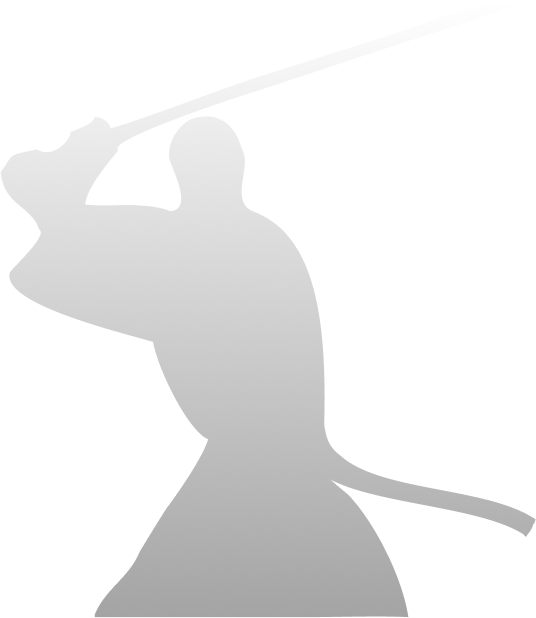
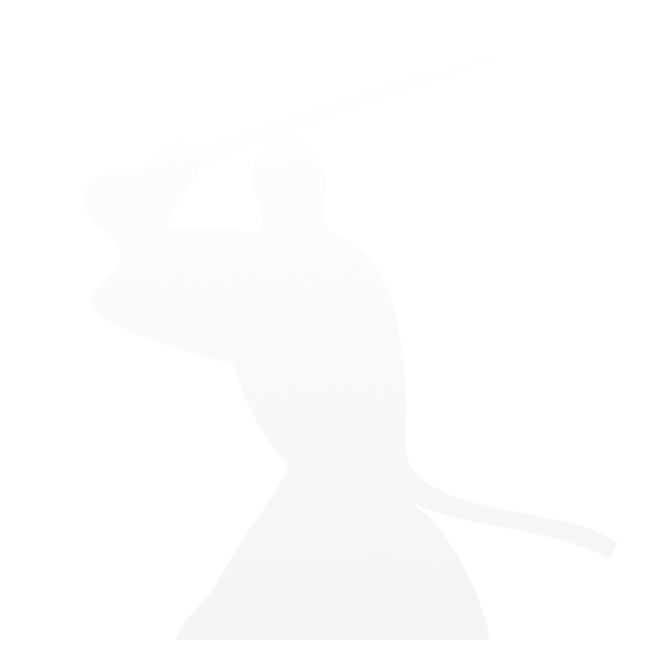
samourai page + content

Changed region(s): [[0.0, 0.246, 1.0, 1.0]]

diff --git a/src/routes/samourai-wallet/+page.svelte b/src/routes/samourai-wallet/+page.svelte
@@ -1,1 +1,104 @@
-<div>todo samouraiwallet</div>
+<script>
+  import data from "@lib/data/samourai.json";
+
+  import H1 from "@lib/components/H1.svelte";
+  import H2 from "@lib/components/H2.svelte";
+  import FlatCoinjoinSvg from "@lib/components/FlatCoinjoinSvg.svelte";
+  import ArrowDown from "@lib/img/ArrowDown.svelte";
+  import GreenText from "@lib/components/GreenText.svelte";
+
+  import TelescopeSvg from "@lib/img/TelescopeSvg.svelte";
+  import GreenCircleSvg from "@lib/img/GreenCircleSvg.svelte";
+  import BlueCheckSvg from "@lib/img/BlueCheckSvg.svelte";
+  import XCircleSvg from "@lib/img/XCircleSvg.svelte";
+  import RedText from "@lib/components/RedText.svelte";
+
+  let y;
+
+  const samouraiData = data;
+</script>
+
+<svelte:window bind:scrollY={y} />
+
+<div class="relative px-4 pt-10 h-[60vh] max-w-5xl mx-auto">
+  <div class="absolute flex flex-col gap-10 pt-8">
+    <H1>Samourai<br /><GreenText>& Whirlpool</GreenText></H1>
+    <div class="text-lg">
+      {samouraiData.hero}
+    </div>
+    <div>
+      <FlatCoinjoinSvg />
+    </div>
+    <div class="flex justify-center">
+      <div class="w-6 animate-bounce">
+        <a href="#overview">
+          <ArrowDown />
+        </a>
+      </div>
+    </div>
+  </div>
+
+  <img src="/wallets-bg/samourai-bg.png" alt="Samourai Logo" />
+</div>
+
+<div class="px-4 flex flex-col gap-6 max-w-3xl mx-auto md:gap-12" id="overview">
+  <div class="w-20">
+    <TelescopeSvg />
+  </div>
+  <H2>Overview</H2>
+  <div class="flex flex-col gap-6">
+    {#each Object.entries(samouraiData.overview) as [point, text]}
+      <div class="flex gap-4 items-start">
+        <div class="w-4 flex-shrink-0">
+          <GreenCircleSvg />
+        </div>
+        <p>{text}</p>
+      </div>
+    {/each}
+  </div>
+</div>
+
+<div class="px-4 flex flex-col gap-6 max-w-3xl mx-auto md:gap-12">
+  <div
+    class="text-green-cj text-center rounded-lg border-4 border-green-cj px-6 py-4"
+  >
+    <H2><GreenText>Benefits</GreenText></H2>
+  </div>
+  <div class="flex flex-col gap-6">
+    {#each Object.entries(samouraiData.benefits) as [point, text]}
+      <div class="flex gap-4 items-start">
+        <div class="w-4 flex-shrink-0">
+          <BlueCheckSvg />
+        </div>
+        <p>{text}</p>
+      </div>
+    {/each}
+  </div>
+</div>
+<div class="px-4 flex flex-col gap-6 md:gap-12 max-w-3xl mx-auto">
+  <div class="text-center rounded-lg border-4 border-red px-6 py-4">
+    <H2><RedText>Trade Offs</RedText></H2>
+  </div>
+  <div class="flex flex-col gap-6">
+    {#each Object.entries(samouraiData.tradeoffs) as [point, text]}
+      <div class="flex gap-4 items-start">
+        <div class="w-4 flex-shrink-0">
+          <XCircleSvg />
+        </div>
+        <p>{text}</p>
+      </div>
+    {/each}
+  </div>
+</div>
+
+<div
+  class="flex flex-col items-center gap-14 max-w-3xl text-center mx-auto px-4"
+>
+  <H2>Have More Questions?</H2>
+  <p class="text-white text-xl">
+    If you have any comments or suggestions, we are open to hearing from you.
+    Please reach out on <a href="mailto:coinjoins@protonmail.com"
+      >coinjoins@protonmail.com</a
+    >.
+  </p>
+</div>
